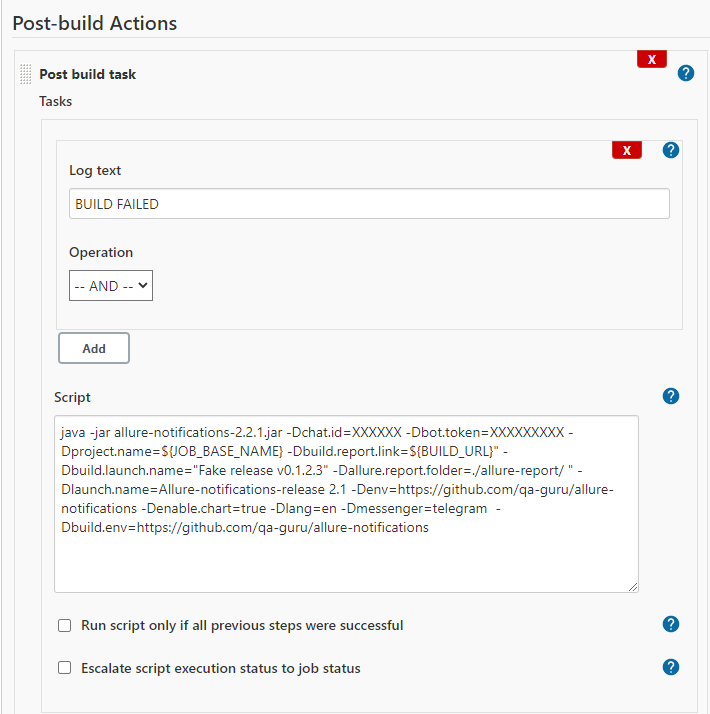
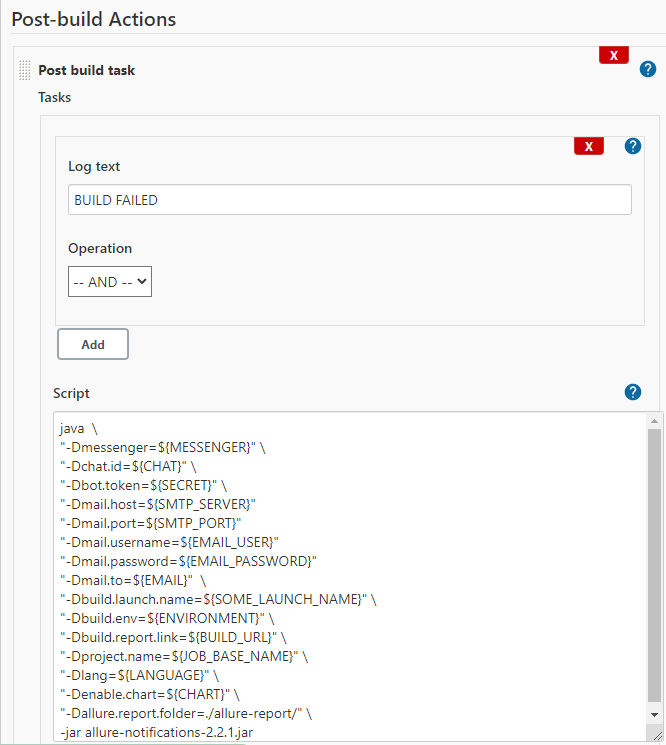
updated Readme #4

diff --git a/README.md b/README.md
@@ -11,7 +11,7 @@ Just put <b>allure-notifications.jar</b> in your project root and it will draw <
 
 <h6>Telegram config</h6>
 
-0. Create telegram bot in @BotFather and add it to your telegram chat.<br/>
+0. Create telegram bot in @BotFather and add it to your telegram chat (with admin permissions).<br/>
 Remember <b>telegram bot secret</b><br/>
 Remember <b>telegram chat id</b>, you can find here -> https://api.telegram.org/bot{telegram_bot_secret}/getUpdates (bot needs admin rights)<br/>
 1. Download latest release https://github.com/qa-guru/allure-notifications/releases or build .jar yourself: <br/>
@@ -20,9 +20,27 @@ Remember <b>telegram chat id</b>, you can find here -> https://api.telegram.org/
 3. Run it after allure-report is generated, 
 for example Jenkins postbuild task (Post build plugin required https://plugins.jenkins.io/postbuild-task/): <br/>
 
-`java -jar allure-notifications-2.2.1.jar -Dchat.id=XXXXXX -Dbot.token=XXXXXXXXX -Dproject.name=${JOB_BASE_NAME} -Dbuild.report.link=${BUILD_URL}" -Dbuild.launch.name="Fake release v0.1.2.3" -Dallure.report.folder=./allure-report/ " -Dlaunch.name=Allure-notifications-release 2.1 -Denv=https://github.com/qa-guru/allure-notifications -Denable.chart=true -Dlang=en -Dmessenger=telegram  -Dbuild.env=https://github.com/qa-guru/allure-notifications` <br/>
-
 ![jenkins config](readme_images/jenkins_config.png)
+
+```
+java  \
+"-Dmessenger=${MESSENGER}" \
+"-Dchat.id=${CHAT}" \
+"-Dbot.token=${SECRET}" \
+"-Dmail.host=${SMTP_SERVER}" 
+"-Dmail.port=${SMTP_PORT}" 
+"-Dmail.username=${EMAIL_USER}" 
+"-Dmail.password=${EMAIL_PASSWORD}" 
+"-Dmail.to=${EMAIL}"  \
+"-Dbuild.launch.name=${SOME_LAUNCH_NAME}" \
+"-Dbuild.env=${ENVIRONMENT}" \
+"-Dbuild.report.link=${BUILD_URL}" \
+"-Dproject.name=${JOB_BASE_NAME}" \
+"-Dlang=${LANGUAGE}" \
+"-Denable.chart=${CHART}" \
+"-Dallure.report.folder=./allure-report/" \
+-jar allure-notifications-2.2.1.jar
+```
 
 - [x] Telegram config
 - [ ] Slack config
@@ -30,15 +48,15 @@ for example Jenkins postbuild task (Post build plugin required https://plugins.j
 
 <h6>CommandLine options</h6>
 All keys should be used with `-D`: <br/> 
+`messenger - Set target messenger (possible values are: telegram, slack, mattermost)` <br/>
+`bot.token - Set bot secret token` <br/>
+`chat.id - Set chat id` <br/>
 `build.launch.name - Set build launch name` <br/>
 `build.env - Set build environment` <br/>
 `build.report.link - Set build report link` <br/>
 `lang - Set language (possible values are: ru, en, ua)` <br/>
 `enable.chart - Enable/disable PieChart diagram (false by default)` <br/>
-`bot.token - Set bot secret token` <br/>
-`chat.id - Set chat id` <br/>
 `project.name - Set project name` <br/>
 `allure.report.folder - Set allure report folder` <br/>
-`messenger - Set target messenger (possible values are: telegram, slack, mattermost)` <br/>
 `mattermost.api.url - Set mattermost api url` <br/>
 Pay attention, all options (except `enable.chart` and `messenger`) are required. Telegram is a default messenger.
